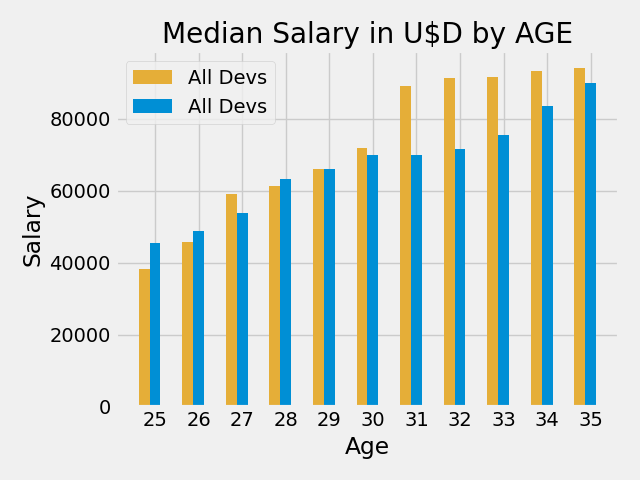
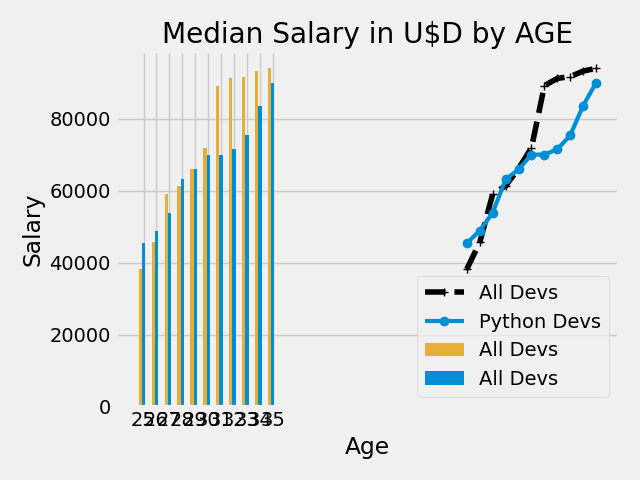
added pie and saved every figure

Changed region(s): [[0.1875, 0.125, 0.5938, 0.9062], [0.625, 0.125, 0.9375, 0.9062]]

diff --git a/studies/datavisualization.py b/studies/datavisualization.py
@@ -1,58 +1,90 @@
 from matplotlib import pyplot as plt
-import numpy as np 
+import numpy as np
 import pandas as pd
 from collections import Counter
 
 plt.style.use('fivethirtyeight')
 
-ages_x = [25,26,27,28,29,30,31,32,33,34,35]
-dev_y =[38200,45600,59033,61344,66124,71856,89167,91178,91699,93200,94000]
-py_dev_y = [45372,48876,53850,63106,65889,70003,70000,71496,75370,83650,90000]
+ages_x = [25, 26, 27, 28, 29, 30, 31, 32, 33, 34, 35]
+dev_y = [38200, 45600, 59033, 61344, 66124,
+         71856, 89167, 91178, 91699, 93200, 94000]
+py_dev_y = [45372, 48876, 53850, 63106, 65889,
+            70003, 70000, 71496, 75370, 83650, 90000]
 
 x_indexes = np.arange(len(ages_x))
 width = 0.25
 language_counter = Counter()
-data = pd.read_csv('data.csv') ## reads into a dataFrame
+data = pd.read_csv('data.csv')  # reads into a dataFrame
 
 for response in data['LanguagesWorkedWith']:
-    language_counter.update(response.split(';')) ## returns a tuple with (language, frequency of occurance)
+    # returns a tuple with (language, frequency of occurance)
+    language_counter.update(response.split(';'))
 
 languages = []
 popularity = []
 
-for item in language_counter.most_common(10):
+for item in language_counter.most_common(6):
     languages.append(item[0])
     popularity.append(item[1])
 
-print(list(zip(languages,popularity)))
+print(list(zip(languages, popularity)))
 
-#******************LINE GRAPH ***************************************
-# plt.plot(ages_x,dev_y, color ='k', linestyle = '--', marker='+', label = "All Devs")
-# plt.plot(ages_x,py_dev_y,marker = 'o', linewidth = 3, label = "Python Devs") #arguments are x axis, yaxis, format (eg color followed by type of line), legend label
 
+# ******************LINE GRAPH ***************************************
+plt.plot(ages_x,dev_y, color ='k', linestyle = '--', marker='+', label = "All Devs")
+plt.plot(ages_x,py_dev_y,marker = 'o', linewidth = 3, label = "Python Devs") #arguments are x axis, yaxis, format (eg color followed by type of line), legend label
+plt.title('Median Salary in U$D by AGE')
+plt.xlabel('Age')
+plt.ylabel('Salary')
+plt.legend() #Passing values in a list on first plot first legend label bases
+plt.grid(True)
+plt.tight_layout()
+plt.savefig('line.png')
+plt.show()
 #####################BAR GRAPH ##############################
-# plt.bar(x_indexes-width,dev_y, width = width, color ='#e5ae38', label="All Devs")
-# plt.bar(x_indexes,py_dev_y, width = width, color ='#008fd5', label="All Devs")
+plt.bar(x_indexes-width,dev_y, width = width, color ='#e5ae38', label="All Devs")
+plt.bar(x_indexes,py_dev_y, width = width, color ='#008fd5', label="All Devs")
+plt.xticks(ticks=x_indexes, labels= ages_x) ## To replace indexes (x_indexes) with ages_x list
+plt.title('Median Salary in U$D by AGE')
+plt.xlabel('Age')
+plt.ylabel('Salary')
 
-# plt.xticks(ticks=x_indexes, labels= ages_x) ## To replace indexes (x_indexes) with ages_x list
+plt.legend() #Passing values in a list on first plot first legend label bases
+plt.grid(True)
+plt.tight_layout()
 
-######################## PLOTING CODE (COMMON FOR ALL PLOTS)########################
-# plt.title('Median Salary in U$D by AGE')
-# plt.xlabel('Age')
-# plt.ylabel('Salary')
-# plt.legend() #Passing values in a list on first plot first legend label bases
-# ##plt.grid(True)
-# plt.tight_layout()
+plt.savefig('Bar.png')
+plt.show()
 
-# plt.savefig('plot.png')
-# plt.show()
-
-########################## Languages and popularity ##############
-
+########################## Languages and popularity Horizontal Bar ##############
+colors = ['blue', 'green', 'yellow', 'black', 'brown', 'orange']
 plt.barh(languages,popularity)
 plt.title("popular languages")
 plt.ylabel("programming languages")
 plt.xlabel(" number of programers")
+
 plt.tight_layout()
 plt.show()
+plt.savefig('Barh.png')
 
+############################# Languages and popularity Pie chart ########################
+exp = []
+value = 0
+
+for language in languages:
+
+    if language == 'Python':
+        value = 0.1
+    else:
+        value = 0
+
+    exp.append(value)
+
+# can also add colors = colors in the argument for plt.pie()
+plt.pie(popularity, labels=languages, explode=exp, shadow=True,
+        wedgeprops={'edgecolor': 'white'}, startangle=45, autopct='%1.1f%%',
+        )
+
+plt.tight_layout()
+plt.show()
+plt.savefig('Pie.png')
